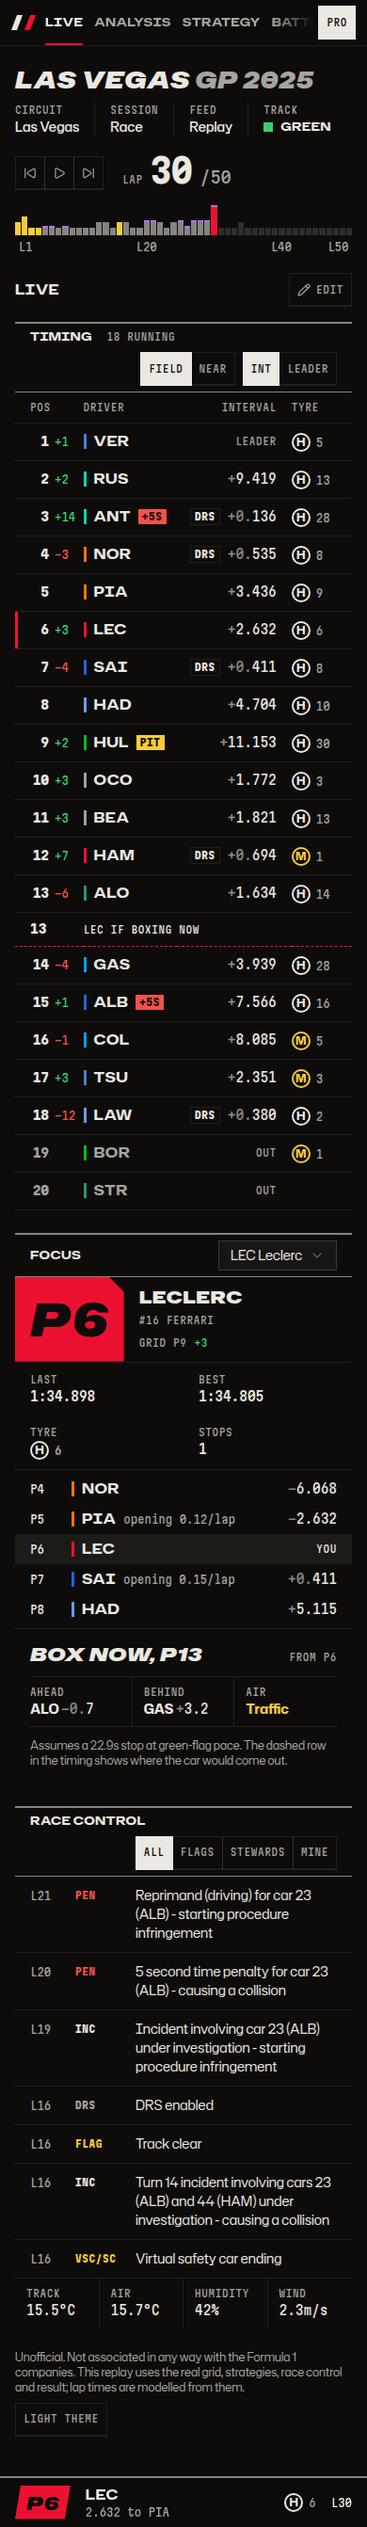
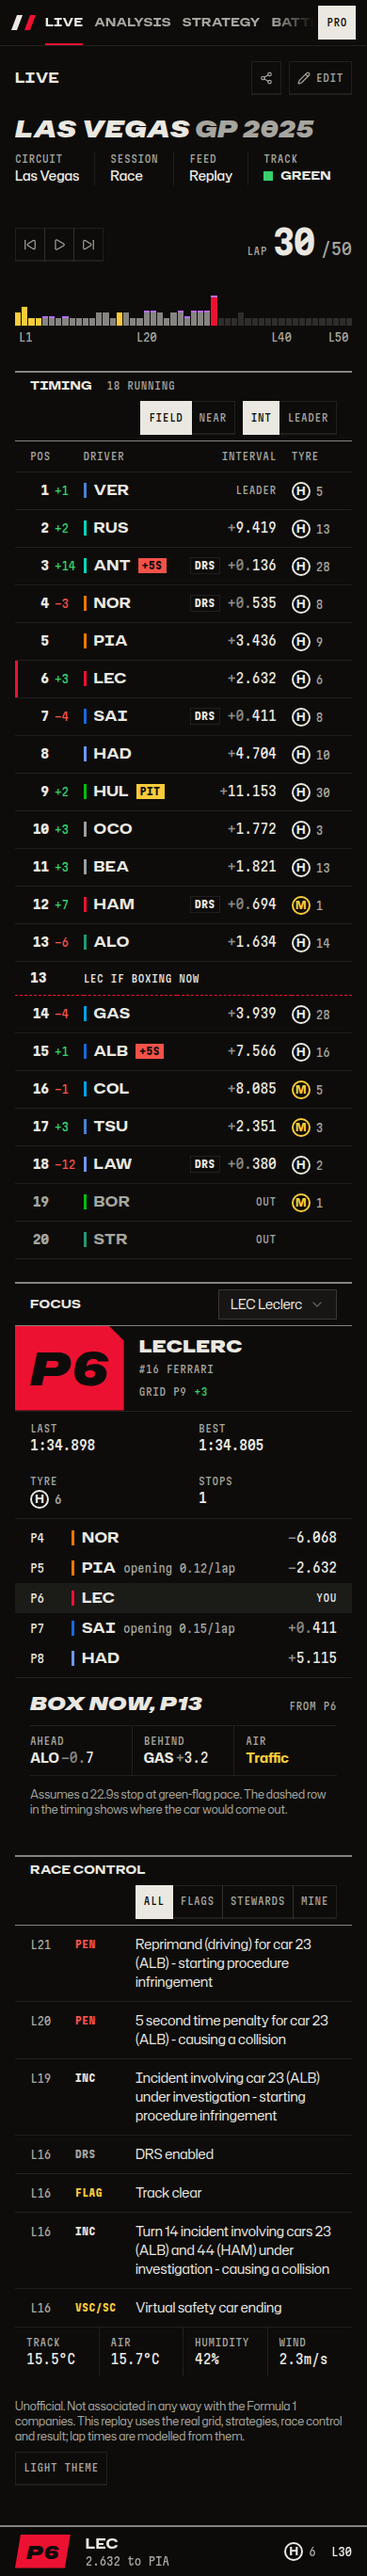
docs: README and gallery for tiles, library, drivers and first run
Fresh screenshots of every screen, with the Library, Drivers, preview and
Welcome pages added; shots wait for the race rather than the top-bar lap,
which phones no longer show.

Claude-Session: https://claude.ai/code/session_01W2bGi7SikPaDXw9nxRmFCR

diff --git a/client/shots/screens.spec.ts b/client/shots/screens.spec.ts
@@ -56,7 +56,8 @@ for (const viewport of VIEWPORTS) {
 						await page.goto(
 							`${screen.path}${screen.path.includes('?') ? '&' : '?'}lap=30&plan=${plan}`
 						);
-						await expect(page.getByTestId('lap-counter')).toBeVisible();
+						// Phones keep the lap on the pit board, not in the top bar, so wait for the race, not its view.
+						await expect(page.getByTestId('lap-counter')).toBeAttached();
 
 						if (theme === 'light') {
 							await switchToLightTheme(page);

diff --git a/README.md b/README.md
@@ -5,31 +5,43 @@ Working name only; the product must not use "F1" or "Formula 1" in its brand.
 
 ![Live dashboard: timing tower, followed driver and race control](docs/screenshots/live-desktop-dark.png)
 
-| Pit wall at 2560px, fit to screen                                                         | Building a dashboard                                                           |
-| ----------------------------------------------------------------------------------------- | ------------------------------------------------------------------------------ |
-| ![Pit wall preset on a 2560px monitor](docs/screenshots/pit-wall-2560.png)                | ![Edit mode with tile bars and resize handles](docs/screenshots/edit-mode.png) |
-| **Analysis**                                                                              | **Strategy**                                                                   |
-| ![Lap time chart, true pace and fastest laps](docs/screenshots/analysis-desktop-dark.png) | ![Stints, tyre wear and pit stops](docs/screenshots/strategy-desktop-dark.png) |
+| Pit wall at 2560px, fit to screen                                                                  | Building a dashboard                                                                           |
+| -------------------------------------------------------------------------------------------------- | ---------------------------------------------------------------------------------------------- |
+| ![Pit wall preset on a 2560px monitor](docs/screenshots/pit-wall-2560.png)                         | ![Edit mode with tile bars and resize handles](docs/screenshots/edit-mode.png)                 |
+| **Analysis**                                                                                       | **Strategy**                                                                                   |
+| ![Lap time chart, true pace and fastest laps](docs/screenshots/analysis-desktop-dark.png)          | ![Stints, tyre wear and pit stops](docs/screenshots/strategy-desktop-dark.png)                 |
+| **Library**                                                                                        | **Drivers**                                                                                    |
+| ![Ready-made and fan dashboards with layout thumbnails](docs/screenshots/library-desktop-dark.png) | ![Grid of driver plates, driver card and positions](docs/screenshots/drivers-desktop-dark.png) |
 
 More screens (light theme, tablet, phones, edit mode): [docs/screenshots.md](docs/screenshots.md).
 
 ## Dashboards
 
-Every page is a dashboard: tiles on a 24-column grid, made to work on any screen from a phone to
-a wall monitor.
+The whole screen is tiles on a 24-column grid, from a phone to a wall monitor: the race title,
+replay keys and lap strip move and resize like timing or a chart.
 
-- **Presets.** Live, Analysis and Strategy (at `/`, `/analysis`, `/strategy`), Battle and Pit
-  wall. Presets can be edited and reset; **+** starts your own.
-- **Tiles.** Timing, focus, gaps, box now, race control, chart (lap times, gap, positions,
-  battle), compare, true pace, fastest laps, stints, tyre wear and pit stops. Drag by the bar,
-  resize from the edges, or use the keyboard: focus a grip, arrows move, Shift and arrows resize.
-- **Any monitor.** Panels lay out by their tile's width (container queries), not the screen's.
-  **Fit** stretches rows to the window height; text size runs from S to TV; narrow screens stack
-  tiles in reading order.
-- **Windows.** Open a tile or a whole dashboard in its own window. Lap, followed driver, plan,
-  compared drivers and play/pause stay in sync across windows.
-- **Sharing.** Export a dashboard as JSON and import it anywhere. Dashboards are saved in the
-  browser; there is no account sync yet.
+- **Ready-made.** Live, Analysis and Strategy (at `/`, `/analysis`, `/strategy`), Battle,
+  Drivers and Pit wall. Edit any of them and Reset brings it back; **+** starts your own.
+- **18 tiles in 5 groups.** Race (session, replay, lap strip, weather, race control), Drivers
+  (focus, driver, grid), Timing, Analysis and Strategy. Drag by the bar, resize from the edges,
+  or use the keyboard: focus a grip, arrows move, Shift and arrows resize. Edit mode bars sit in
+  the gaps, so a dashboard looks the same while you build it.
+- **Any monitor.** Panels lay out by their tile's width (container queries). **Fit** stretches
+  rows to the window height; text size runs from S to TV; narrow screens stack tiles.
+- **Windows.** Pop out a tile or a dashboard; lap, driver, plan, compared drivers and play/pause
+  stay in sync.
+- **Library and sharing.** `/library` has your dashboards, the ready-made ones and fan
+  dashboards to preview and add. **Share** copies a link that carries the whole dashboard; no
+  server needed. Export/Import does the same with a file.
+- **First run.** `/welcome` picks the driver you follow and a starting dashboard.
+- **Free and Pro.** Free keeps 3 dashboards of your own; Pro keeps any number, unlocks Pro tiles
+  and publishing. Accounts and the fan library are mocked in the browser for now.
+- **Pictures.** Driver photos, team logos and cars load from formula1.com in the viewer's browser,
+  using the references the timing feed publishes; nothing is stored in the repo, and each has a
+  drawn fallback. A paid launch needs a media licence first.
+
+How it all fits together, what ships by default and the backend contract:
+[docs/product/dashboards.md](docs/product/dashboards.md).
 
 Design rules: [docs/design/identity.md](docs/design/identity.md).
 
@@ -69,7 +81,7 @@ modelled and calibrated to the real gaps. Set `VITE_DATA_SOURCE=api` to read fro
 | `npm run format`              | Prettier.                                                   |
 | `npm run test:unit -w client` | Node test runner over the mock race and insights.           |
 | `npm run test:e2e`            | Playwright against the mock replay.                         |
-| `npm run shots`               | Screenshots of every page at 6 sizes, free/Pro, dark/light. |
+| `npm run shots`               | Screenshots of 10 screens at 6 sizes, free/Pro, dark/light. |
 
 Shots land in `client/shots/output/<viewport>/<page>-<plan>-<theme>.png` (not committed) and are
 meant for design and quality audits. If Playwright's own browser is not installed, point it at

diff --git a/docs/screenshots.md b/docs/screenshots.md
@@ -3,6 +3,10 @@
 All screens are from the mock replay of the 2025 Las Vegas Grand Prix at lap 30. They are
 regenerated with `npm run shots` (output in `client/shots/output`, not committed).
 
+Shots run with formula1.com blocked, so driver pictures show their drawn fallback: the race number
+on a plate, a generic car outline. In a browser that can reach formula1.com the photos, logos and
+cars load over them.
+
 ## Wide monitors
 
 Pit wall preset on a 2560px monitor, rows fitted to the window height:
@@ -33,10 +37,40 @@ Strategy:
 
 ## Building a dashboard
 
-Edit mode: drag tiles by their bar, resize from the edges, add tiles, duplicate, export and
-import. The keyboard works too.
+Edit mode: every part of the screen is a tile, the race title and replay keys included. Bars
+sit in the gaps above tiles, so nothing changes size while you edit. Drag by the bar, resize from
+the edges, add tiles, duplicate, share, export and import. The keyboard works too.
 
 ![Edit mode](screenshots/edit-mode.png)
+
+## Drivers
+
+The grid as picture plates in running order, the followed driver large with their car, and
+positions lap by lap. Only the followed driver's plate takes the team colour.
+
+![Drivers, dark](screenshots/drivers-desktop-dark.png)
+
+At 2560px:
+
+![Drivers at 2560px](screenshots/drivers-2560.png)
+
+## Library, sharing and first run
+
+The library: your dashboards, the ready-made ones and fan dashboards, each drawn to scale.
+
+![Library, dark](screenshots/library-desktop-dark.png)
+
+A fan dashboard previewed live before adding it. Share links open the same way.
+
+![Preview of a fan dashboard](screenshots/preview-desktop-dark.png)
+
+First run: pick a driver and how you watch.
+
+![Welcome, light](screenshots/welcome-laptop-light.png)
+
+| Library on a phone                                   | Welcome on a phone                                   |
+| ---------------------------------------------------- | ---------------------------------------------------- |
+| ![Library on a phone](screenshots/library-phone.png) | ![Welcome on a phone](screenshots/welcome-phone.png) |
 
 ## Light theme
 
